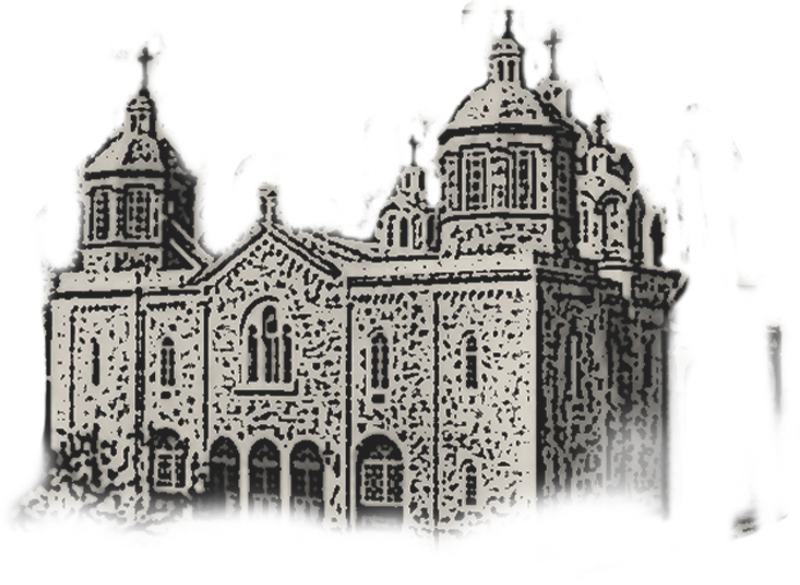
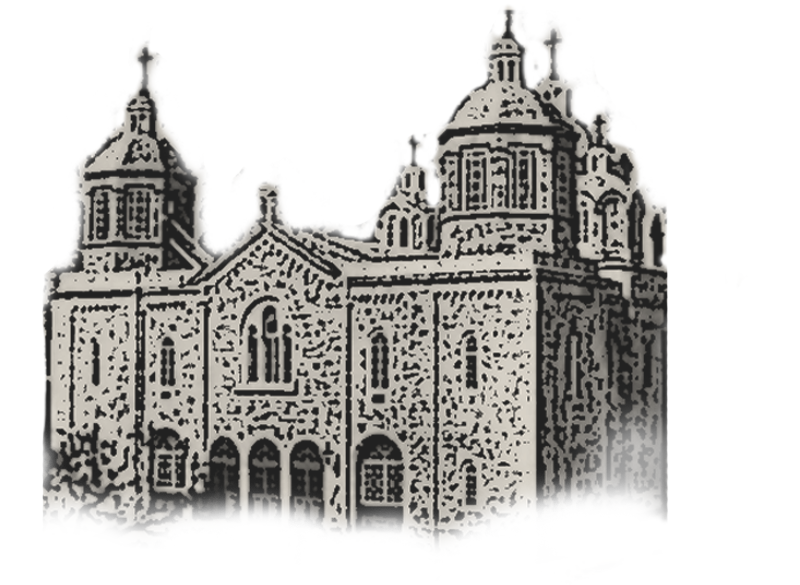
scroll buttons

diff --git a/src/textInserters/TextInserterParticular.js b/src/textInserters/TextInserterParticular.js
@@ -1,34 +1,19 @@
-import React, { useContext, useRef, useEffect, useState } from 'react';
-import scrollBtn from '../assets/02_Continue-text-button-small.png';
+import React, { useContext, useRef } from 'react';
 import isLeftToRight from '../fragments/IsLeftToRightFunc';
 import LangContext from '../ChurchContext';
 import russianText from './russianText';
 import englishText from './englishText';
 import hebrewText from './hebrewText';
 import { timer, removeTimer } from '../TimerHundler';
-import upperTextArrow from '../assets/11_textArrowUP.png';
 import RighToLeftTitle from '../fragments/RightToLeftTitle';
 import LeftToRightTitle from '../fragments/LeftToRightTitle';
+import ScrollBtns from "../fragments/ScrollBtns";
 import '../css/App.css';
 
 function TextInserterParticular({ typeOfInfo, homeBtnLogic, isCrosses }) {
 
     const lang = useContext(LangContext).lang;
-    const [isScroll, setIsScroll] = useState(false);
     const textParaEl = useRef(null);
-    const upperScrollEl = useRef(null);
-    const bottomScrollEl = useRef(null);
-
-    useEffect(() => {
-
-        if (textParaEl.current) {
-            if (textParaEl.current.scrollHeight > textParaEl.current.offsetHeight) {
-                setIsScroll(true);
-            } else {
-                setIsScroll(false);
-            }
-        }
-    }, [textParaEl])
 
     function resetTimer() {
         removeTimer();
@@ -53,15 +38,6 @@ function TextInserterParticular({ typeOfInfo, homeBtnLogic, isCrosses }) {
         return whichFileToUse().particularInfo[typeOfInfo];
     }
 
-    function isScrollBtn() {
-        if (textParaEl.current) {
-            if (textParaEl.current.scrollHeight > textParaEl.current.offsetHeight) {
-                return true;
-            } else {
-                return false;
-            }
-        }
-    }
     function titleToInsert() {
 
         return isCrosses ? whichFileToUse().crossesTitles[typeOfInfo] : whichFileToUse().titles[typeOfInfo];
@@ -69,27 +45,14 @@ function TextInserterParticular({ typeOfInfo, homeBtnLogic, isCrosses }) {
     const scrollAndUpdateDown = () => {
 
         resetTimer();
-
-        let maxTextLength = textParaEl.current.scrollHeight - textParaEl.current.clientHeight;
         textParaEl.current.scrollTop += 10;
 
-        if (textParaEl.current.scrollTop !== 0) {
-            upperScrollEl.current.style.visibility = 'visible';
-        }
-        if (textParaEl.current.scrollTop === maxTextLength) {
-            bottomScrollEl.current.style.visibility = 'hidden';
-        }
     }
 
     const scrollAndUpdateUp = () => {
 
         textParaEl.current.scrollTop -= 10;
 
-        if (textParaEl.current.scrollTop === 0) {
-            upperScrollEl.current.style.visibility = 'hidden';
-        } if (bottomScrollEl.current.style.visibility === 'hidden') {
-            bottomScrollEl.current.style.visibility = 'visible';
-        }
     }
 
     return (
@@ -98,11 +61,10 @@ function TextInserterParticular({ typeOfInfo, homeBtnLogic, isCrosses }) {
             {isLeftToRight() ?
                 <LeftToRightTitle titleToInsert={titleToInsert()} /> :
                 <RighToLeftTitle titleToInsert={titleToInsert()} />}
-            {isScroll ? <img ref={upperScrollEl} onClick={() => { resetTimer(); scrollAndUpdateUp() }} src={upperTextArrow} alt="scrollBtn" className={isLeftToRight() ? 'topInfoScrollEn' : 'topScrollOneHE'} /> : null}
             <p ref={textParaEl} className={isLeftToRight() ? 'infoEnText' : 'textCss'} id="particularTextBox">
                 {infoToInsert()}
             </p>
-            {isScroll ? <img ref={bottomScrollEl} onClick={() => { resetTimer(); scrollAndUpdateDown() }} src={scrollBtn} alt="scrollBtn" className={isLeftToRight() ? 'buttomInfoScroll' : 'buttomScrollOneHE'} /> : null}
+            <ScrollBtns homeBtnLogic={homeBtnLogic} scrollDown={scrollAndUpdateDown} scrollUp={scrollAndUpdateUp} />
         </div>
     );
 }

diff --git a/src/pages/CrossesPage.js b/src/pages/CrossesPage.js
@@ -1,43 +1,43 @@
-import React, {useEffect, useState} from 'react';
+import React, { useEffect, useState } from 'react';
 import ImageInserter from '../textInserters/ImagesInserter';
 import crossesImgEN from '../assets/17-crossesEN.png';
 import crossesImgHe from '../assets/16-crossesHE.png';
 import isLeftToRight from '../fragments/IsLeftToRightFunc';
 import TextInserterCrosses from '../textInserters/TextInserterCrosses';
-import {timer, removeTimer} from '../TimerHundler';
+import { timer, removeTimer } from '../TimerHundler';
 import '../css/App.css';
 import HomeBtn from '../fragments/HomeBtn';
 
-function CrossesPage ({homeBtnLogic}){
+function CrossesPage({ homeBtnLogic }) {
 
-useEffect(
-      () => {
-      timer(homeBtnLogic);
+      useEffect(
+            () => {
+                  timer(homeBtnLogic);
 
-      return () => { // Return callback to run on unmount.
-            
-      removeTimer();
-            };
-      // eslint-disable-next-line react-hooks/exhaustive-deps
-      }, []);
-    
+                  return () => { // Return callback to run on unmount.
 
-  const [typeOfInfo, setTypeOfInfo]=useState('russianCross');
+                        removeTimer();
+                  };
+                  // eslint-disable-next-line react-hooks/exhaustive-deps
+            }, []);
 
-  const setTypeShowInfo = (e) => {
-        setTypeOfInfo(e.currentTarget.id)
-  }  
- 
-  return (
-        <>
-            <img src={isLeftToRight()?crossesImgEN:crossesImgHe} alt='backgroundImage' className='particularBackGround'></img>
-            <HomeBtn homeBtnLogic={homeBtnLogic} />
-            <TextInserterCrosses typeOfInfo={typeOfInfo} />
-            <ImageInserter setTypeShowInfo={setTypeShowInfo} typeOfInfo={typeOfInfo}/>
-        </>
 
-        );
-    
+      const [typeOfInfo, setTypeOfInfo] = useState('russianCross');
+
+      const setTypeShowInfo = (e) => {
+            setTypeOfInfo(e.currentTarget.id);
+      }
+
+      return (
+            <>
+                  <img src={isLeftToRight() ? crossesImgEN : crossesImgHe} alt='backgroundImage' className='particularBackGround'></img>
+                  <HomeBtn homeBtnLogic={homeBtnLogic} />
+                  <TextInserterCrosses typeOfInfo={typeOfInfo} />
+                  <ImageInserter setTypeShowInfo={setTypeShowInfo} typeOfInfo={typeOfInfo} />
+            </>
+
+      );
+
 }
 
 export default CrossesPage;

diff --git a/src/css/App.css b/src/css/App.css
@@ -28,14 +28,14 @@ body, html {
   grid-row-gap: 8px;
 }
 .churchOne{
-  left: -147px; 
-  top: 47px; 
+  left: -94px;
+  top: -63px;
   position: fixed; 
   width: 728px;
   height: 1091px;
 } 
 .churchTwo{
-  left: 486px; 
+  left: 540px; 
   top: 133px; 
   position: fixed; 
   width: 401px;
@@ -145,8 +145,8 @@ body, html {
 }
 .enInfoTitle{
   position: fixed;
-  left: 2%;
-  top: 14%;
+  left: 4%;
+  top: 21%;
 }
 .frontPageEnTitle{
   margin-left: 21%;
@@ -166,7 +166,7 @@ body, html {
   font-family: fantasy;
   position: fixed;
   left: 8%;
-  top: 33%;
+  top: 30%;
   width: 31%;
   line-height: 1.6;
   height: 46%;
@@ -220,4 +220,17 @@ body, html {
   position: fixed;
   top: 20%;
   right: 12%;
+}
+.scroll-button-container {
+  position: fixed;
+  bottom: 17%;
+  left: 35%;
+}
+.scroll-container-heb{
+  position: fixed;
+  bottom: 17%;
+  right: 52%;
+}
+.left-scroll {
+  margin-right: 20px;
 }

diff --git a/src/fragments/ScrollBtns.js b/src/fragments/ScrollBtns.js
@@ -1,0 +1,24 @@
+import React from "react";
+import scrollUpImg from "../assets/11-up-arrow.png";
+import scrollDwonImg from "../assets/02-down-arrow.png";
+import isLeftToRight from './IsLeftToRightFunc';
+import "../css/App.css";
+
+function ScrollingBtn({ scrollDown, scrollUp }) {
+
+
+
+    return (
+        <div className={isLeftToRight() ? "scroll-button-container" : "scroll-container-heb"} >
+            <img
+                src={scrollUpImg}
+                alt="scroll-up"
+                onClick={scrollUp}
+                className={"left-scroll"}
+            />
+            <img src={scrollDwonImg} alt="scroll-up" onClick={scrollDown} />
+        </ div>
+    );
+}
+
+export default ScrollingBtn;

diff --git a/src/TimerHundler.js b/src/TimerHundler.js
@@ -1,12 +1,12 @@
 
 let myFunc;
-export function timer(homeBtnLogic){
+export function timer(homeBtnLogic) {
 
-     myFunc =window.setInterval(() => {
+  myFunc = window.setInterval(() => {
     homeBtnLogic();
-      }, 300000);
+  }, 3000000);
 }
-export function removeTimer(){
+export function removeTimer() {
 
-    window.clearInterval(myFunc);
+  window.clearInterval(myFunc);
 }

diff --git a/src/css/Crosses.css b/src/css/Crosses.css
@@ -35,7 +35,10 @@
 	 width: 243px;
 	 height: 228px;
 } 
-
+.move{
+	-webkit-transform: translate(200px,-360px);
+	transition-duration        : 0.5s;
+}
 #sibirCross{ 
 	 left: 146px; 
 	 top: 456px; 
